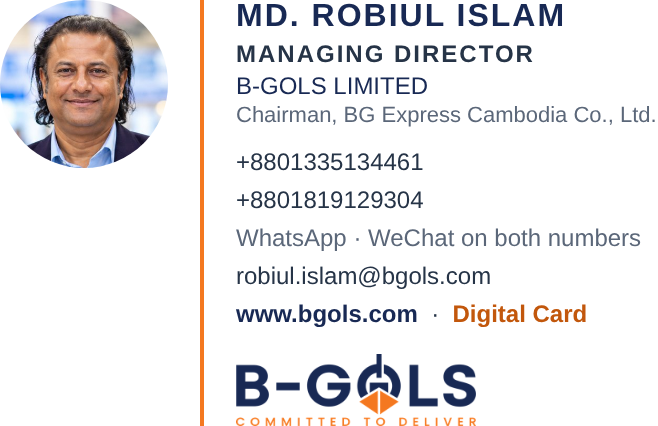
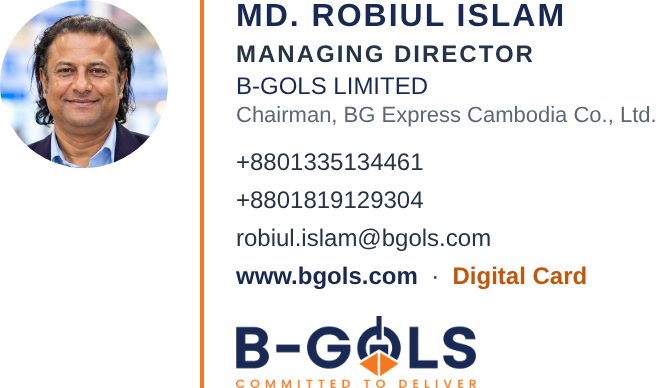
Phone labels: Cell 1 / Cell 2, no WhatsApp/WeChat after numbers
Claude-Session: https://claude.ai/code/session_01TprP1ieCAEd2tQhQxghHUL

Changed region(s): [[0.3343, 0.0, 1.0, 0.7732], [0.0, 0.0309, 0.2736, 0.433], [0.3343, 0.8041, 0.7295, 1.0]]

diff --git a/index.html b/index.html
@@ -150,8 +150,8 @@
       <section class="panel" aria-labelledby="h-contact">
         <h2 id="h-contact" class="panel-title">Contact</h2>
         <ul class="list">
-          <li><a class="row" href="tel:+8801335134461"><span class="r-ico"><svg><use href="#i-phone"/></svg></span><span class="r-text"><b>Call Mobile 1</b><small>+8801335134461 · WhatsApp · WeChat</small></span><svg class="r-go"><use href="#i-chevron"/></svg></a></li>
-          <li><a class="row" href="tel:+8801819129304"><span class="r-ico"><svg><use href="#i-phone"/></svg></span><span class="r-text"><b>Call Mobile 2</b><small>+8801819129304 · WhatsApp · WeChat</small></span><svg class="r-go"><use href="#i-chevron"/></svg></a></li>
+          <li><a class="row" href="tel:+8801335134461"><span class="r-ico"><svg><use href="#i-phone"/></svg></span><span class="r-text"><b>Cell 1</b><small>+8801335134461</small></span><svg class="r-go"><use href="#i-chevron"/></svg></a></li>
+          <li><a class="row" href="tel:+8801819129304"><span class="r-ico"><svg><use href="#i-phone"/></svg></span><span class="r-text"><b>Cell 2</b><small>+8801819129304</small></span><svg class="r-go"><use href="#i-chevron"/></svg></a></li>
           <li><a class="row" href="https://wa.me/8801335134461" target="_blank" rel="noopener"><span class="r-ico"><svg><use href="#i-whatsapp"/></svg></span><span class="r-text"><b>WhatsApp (Mobile 1)</b><small>+8801335134461</small></span><svg class="r-go"><use href="#i-external"/></svg></a></li>
           <li><a class="row" href="https://wa.me/8801819129304" target="_blank" rel="noopener"><span class="r-ico"><svg><use href="#i-whatsapp"/></svg></span><span class="r-text"><b>WhatsApp (Mobile 2)</b><small>+8801819129304</small></span><svg class="r-go"><use href="#i-external"/></svg></a></li>
           <li><button class="row" type="button" data-open-wechat><span class="r-ico"><svg><use href="#i-wechat"/></svg></span><span class="r-text"><b>WeChat</b><small>Search either mobile number</small></span><svg class="r-go"><use href="#i-chevron"/></svg></button></li>

diff --git a/card.html b/card.html
@@ -98,7 +98,7 @@
           <p class="f-also">Chairman · BG Express Cambodia Co., Ltd.</p>
           <div class="f-lines">
             <a href="tel:+8801335134461"><svg><use href="#i-phone"/></svg>+8801335134461</a>
-            <a href="tel:+8801819129304"><svg><use href="#i-phone"/></svg>+8801819129304 <small style="font:inherit;color:var(--muted)">(both: WhatsApp · WeChat)</small></a>
+            <a href="tel:+8801819129304"><svg><use href="#i-phone"/></svg>+8801819129304</a>
             <a href="mailto:robiul.islam@bgols.com"><svg><use href="#i-mail"/></svg>robiul.islam@bgols.com</a>
             <a href="https://www.bgols.com/" target="_blank" rel="noopener"><svg><use href="#i-globe"/></svg>www.bgols.com</a>
             <p><svg><use href="#i-pin"/></svg><span>B&amp;T Nehaleeya Tower, Level-7, Holding No. 80B, Kemal Ataturk Avenue, P.S. Banani, Dhaka-1213, Bangladesh.</span></p>

diff --git a/email-signature.html b/email-signature.html
@@ -38,7 +38,6 @@
             <div style="font-size:12px;line-height:19px;padding-top:8px;">
               <a href="tel:+8801335134461" style="color:#263447;text-decoration:none;">+8801335134461</a><br>
               <a href="tel:+8801819129304" style="color:#263447;text-decoration:none;">+8801819129304</a><br>
-              <span style="color:#5B6779;">WhatsApp · WeChat on both numbers</span><br>
               <a href="mailto:robiul.islam@bgols.com" style="color:#263447;text-decoration:none;">robiul.islam@bgols.com</a><br>
               <a href="https://www.bgols.com/" style="color:#182954;text-decoration:none;font-weight:bold;">www.bgols.com</a>
               &nbsp;·&nbsp; <a id="cardLink" href="./" style="color:#C2570C;text-decoration:none;font-weight:bold;">Digital Card</a>

diff --git a/sw.js b/sw.js
@@ -3,7 +3,7 @@
 // Cache names carry this card's own prefix: two cards share the bgols-limited.github.io origin,
 // so each card must only ever delete its own old caches.
 const PREFIX = "robiul-card-";
-const VERSION = PREFIX + "v9";
+const VERSION = PREFIX + "v10";
 const CORE = [
   "./", "index.html", "card.html", "nfc-setup.html", "email-signature.html", "css/styles.css", "js/config.js", "js/app.js", "contact.vcf",
   "manifest.webmanifest",
